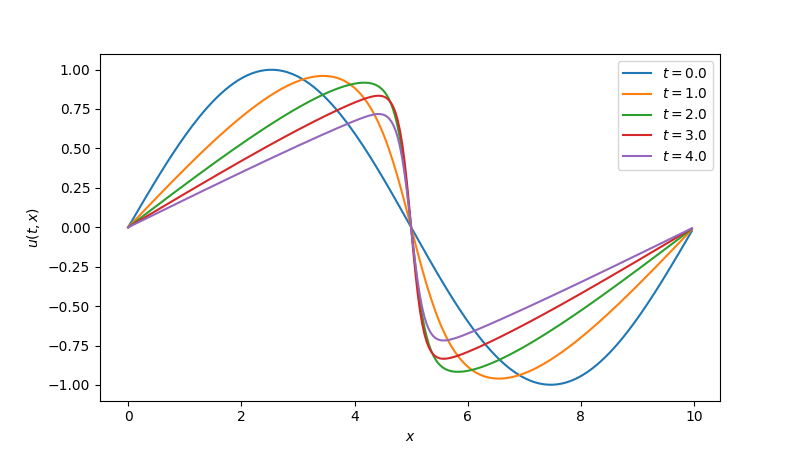
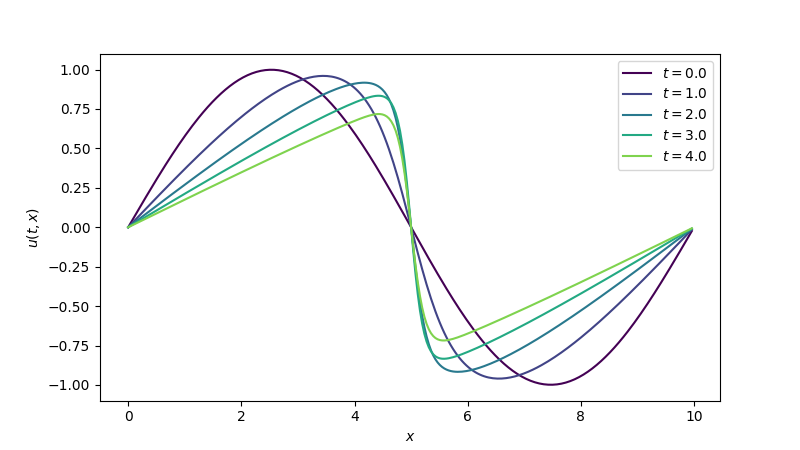
Change to sequential color cycle in docs tutorial plots

diff --git a/docs/tutorials/implicit_heat.md b/docs/tutorials/implicit_heat.md
@@ -130,28 +130,31 @@ t, y = pdx.solve_ivp(
 
 ```python notest
 import matplotlib.pyplot as plt
-
-plt.style.use('seaborn-v0_8-colorblind')
-colors = plt.rcParams['axes.prop_cycle'].by_key()['color']
+import matplotlib.cm as cm
 
 fig, ax = plt.subplots(figsize=(8, 4.5), layout='tight')
+
+norm = plt.Normalize(vmin=t.min(), vmax=t.max())  # type: ignore
+cmap = cm.viridis  # type: ignore
+
 for i in range(len(t)):
-    c = colors[i]
-    ax.plot(x, y[i], marker='o', color=c, markersize=4)
+    c = cmap(norm(t[i]))
+    ax.plot(x, y[i], marker='o', color=c, markersize=4, ls='none')
     ax.plot(x, gaussian(x, t[i], D, L), ls='-', color=c, alpha=0.7)
 
-# One legend entry per time snapshot, plus a style key
-for i in range(len(t)):
-    ax.plot([], [], 'o', color=colors[i], label=f"$t = {t[i]:.1f}$")
+# Style-only legend entries in neutral grey
+grey = '0.3'
+ax.plot([], [], marker='o', ls='none', color=grey, label='Numerical')
+ax.plot([], [], ls='-', color=grey, alpha=0.7, label='Exact')
+ax.legend(fontsize=11)
 
-# Dummy entries for the style convention
-ax.plot([], [], 'ko', label='Numerical')
-ax.plot([], [], 'k-', label='Exact')
+sm = cm.ScalarMappable(cmap=cmap, norm=norm)
+cbar = fig.colorbar(sm, ax=ax)
+cbar.set_label("$t$", fontsize=11)
 
-ax.legend()
-ax.set_xlabel("$x$")
-ax.set_ylabel("$u(t, x)$")
-plt.tight_layout()
+ax.set_xlabel("$x$", fontsize=11)
+ax.set_ylabel("$u(t, x)$", fontsize=11)
+
 plt.show()
 ```
 

diff --git a/docs/tutorials/spectral_burgers.md b/docs/tutorials/spectral_burgers.md
@@ -161,11 +161,17 @@ def imex_step(carry, _):
 
 ```python notest
 import matplotlib.pyplot as plt
+import matplotlib.cm as cm
 
 fig, ax = plt.subplots(figsize=(8, 4.5))
+
 stride = max(1, len(t_all) // 5)
+norm = plt.Normalize(vmin=t_all[0], vmax=t_all[-1])  # type: ignore
+cmap = cm.viridis  # type: ignore
+
 for i in range(0, len(t_all), stride):
-    ax.plot(x, y_all[i], label=f"$t = {t_all[i]:.1f}$")
+    ax.plot(x, y_all[i], color=cmap(norm(t_all[i])), label=f"$t = {t_all[i]:.1f}$")
+
 ax.set_xlabel("$x$")
 ax.set_ylabel("$u(t, x)$")
 ax.legend()
